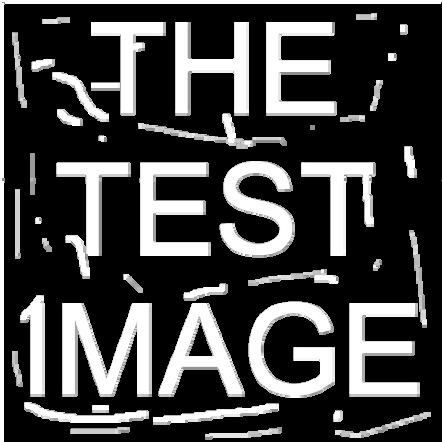
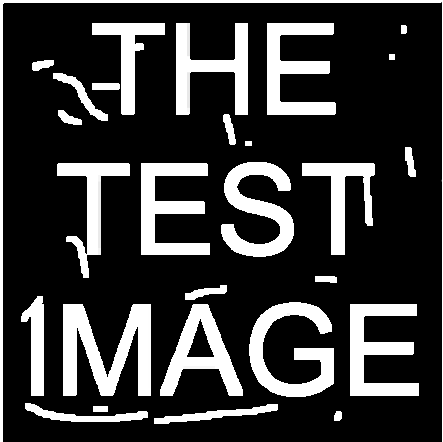
Feat: FECHAMENTO

diff --git a/classes/MathematicalMorphology.py b/classes/MathematicalMorphology.py
@@ -1,3 +1,4 @@
+import copy
 from PIL import Image
 from classes.File import File
 
@@ -85,40 +86,81 @@ class MathematicalMorphology:
         self.changedImage.setFile("attachment/erosion." + self.changedImage.getExtencial())
         return self.changedImage
 
-        def opening (self, fileImage):
-            changedImageMap = self.changedImage.convertImageToMap()
+    def opening(self):
+        erosionImage = self.erosion()
+        changedImage = File(erosionImage.getFile())
+        changedImageMap = changedImage.convertImageToMap()
 
-            for y in range(1, self.changedImage.getWidth()-2):
-                for x in range(1, self.changedImage.getHeight()-2):
+        for y in range(1, self.changedImage.getWidth()-2):
+            for x in range(1, self.changedImage.getHeight()-2):
 
-                    red = 0
-                    greem = 0
-                    blue = 0
+                red = 0
+                greem = 0
+                blue = 0
+
+                for i in range(3):
+                    for j in range(3):
+                        r, g, b, p = erosionImage.image.getpixel((x+(i-1),  y+(j-1)))
+                        
+                        if (r < red):
+                            red = r
+                            greem = g
+                            blue = b
+
+                r, g, b, p = erosionImage.image.getpixel((x,  y))
+                if r < 128:
+                    if(red-10 > 0): red = red - 10 
+                    else: red = 0
+                    if(greem-10 > 0): greem = greem - 10 
+                    else: greem = 0
+                    if(blue-10 > 0): blue = blue - 10 
+                    else: blue = 0
+
 
                     for i in range(3):
                         for j in range(3):
-                            r, g, b, p = self.originalImage.image.getpixel((x+(i-1),  y+(j-1)))
-                            
-                            if (r < red):
-                                red = r
-                                greem = g
-                                blue = b
+                            changedImageMap[x+(i-1), y+(j-1)] = red, greem, blue
+        
+        changedImage.image.save("attachment/opening." + self.changedImage.getExtencial(),
+                                    format=self.originalImage.image.format)
+        changedImage.setFile("attachment/opening." + self.changedImage.getExtencial())
+        return changedImage
+    
+    def closure(self):
+        dilationImage = self.erosion()
+        changedImage = File(dilationImage.getFile())
+        changedImageMap = changedImage.convertImageToMap()
 
-                    r, g, b, p = self.originalImage.image.getpixel((x,  y))
-                    if r < 128:
-                        if(red-10 > 0): red = red - 10 
-                        else: red = 0
-                        if(greem-10 > 0): greem = greem - 10 
-                        else: greem = 0
-                        if(blue-10 > 0): blue = blue - 10 
-                        else: blue = 0
+        for y in range(1, self.changedImage.getWidth()-2):
+            for x in range(1, self.changedImage.getHeight()-2):
 
+                red = 0
+                greem = 0
+                blue = 0
 
-                        for i in range(3):
-                            for j in range(3):
-                                changedImageMap[x+(i-1), y+(j-1)] = red, greem, blue
-            
-            self.changedImage.image.save("attachment/erosion." + self.changedImage.getExtencial(),
-                                        format=self.originalImage.image.format)
-            self.changedImage.setFile("attachment/erosion." + self.changedImage.getExtencial())
-            return self.changedImage
+                for i in range(3):
+                    for j in range(3):
+                        r, g, b, p = dilationImage.image.getpixel((x+(i-1),  y+(j-1)))
+                        
+                        if (r > red):
+                            red = r
+                            greem = g
+                            blue = b
+                
+                if ((red+greem+blue)/3 > 128):
+
+                    if(red+10 < 255): red = red + 10 
+                    else: red = 255
+                    if(greem+10 < 255): greem = greem + 10 
+                    else: greem = 255
+                    if(blue+10 < 255): blue = blue + 10 
+                    else: blue = 255
+
+                    for i in range(3):
+                        for j in range(3):
+                            changedImageMap[x+(i-1), y+(j-1)] = red, greem, blue
+        
+        changedImage.image.save("attachment/dilation." + self.changedImage.getExtencial(),
+                                     format=self.originalImage.image.format)
+        changedImage.setFile("attachment/dilation." + self.changedImage.getExtencial())
+        return changedImage

diff --git a/main.py b/main.py
@@ -124,8 +124,10 @@ while True:
         changedImage = morphology.erosion()
         window["-CHANGED_IMAGE-"].update(changedImage.getFile())
     elif event in ('Abertura'):
-        changedImage = morphology.erosion()
         changedImage = morphology.opening()
+        window["-CHANGED_IMAGE-"].update(changedImage.getFile())
+    elif event in ('Fechamento'):
+        changedImage = morphology.closure()
         window["-CHANGED_IMAGE-"].update(changedImage.getFile())
 
     if event == 'Display':
